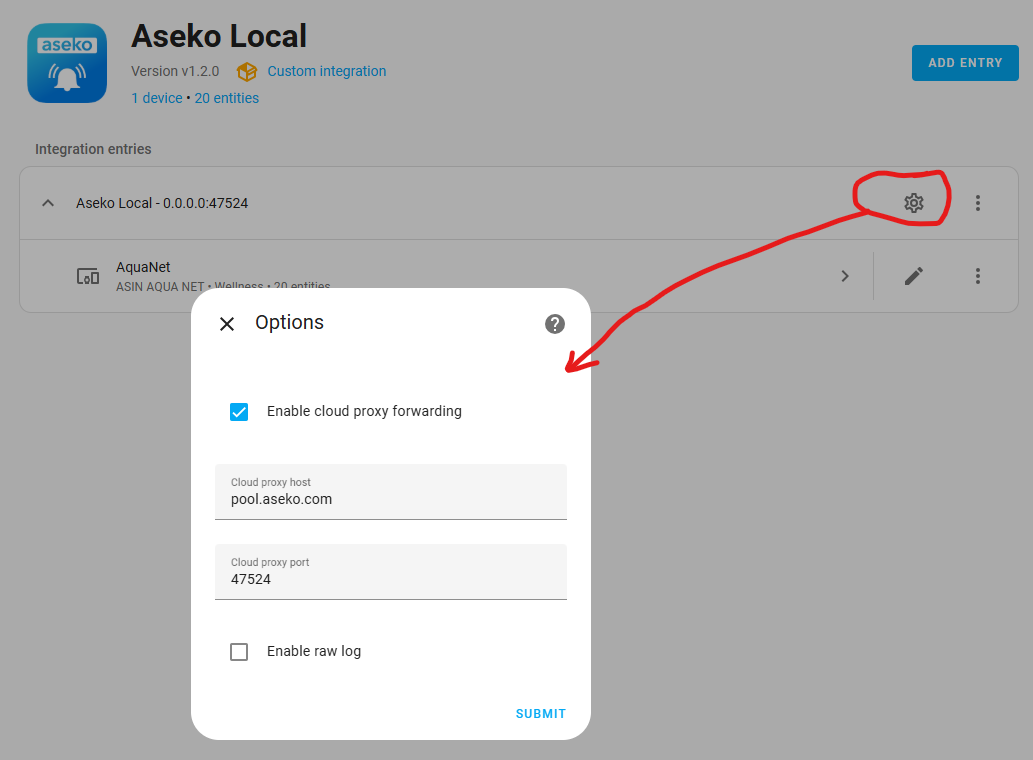
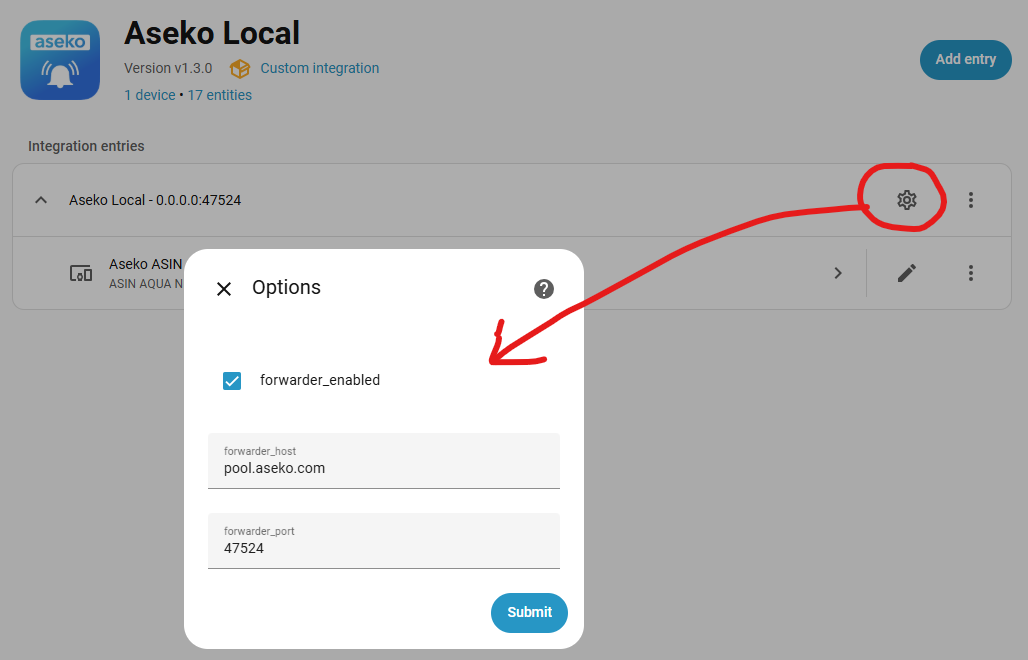
chore: readme adapted

diff --git a/custom_components/aseko_local/mirror_forwarder.py b/custom_components/aseko_local/mirror_forwarder.py
@@ -34,6 +34,7 @@ class AsekoCloudMirror:
         if self._task is not None:
             return
         self._task = asyncio.create_task(self._worker(), name="AsekoCloudMirrorWorker")
+        _LOGGER.debug("Mirror worker started.")
 
     async def stop(self) -> None:
         """Stop worker task and close connection."""
@@ -42,6 +43,7 @@ class AsekoCloudMirror:
             await self._task
             self._task = None
         await self._close_writer()
+        _LOGGER.debug("Mirror worker stopped.")
 
     async def enqueue(self, frame: bytes) -> None:
         """Queue one raw Aquanet frame (120 bytes). Non-blocking for the caller."""

diff --git a/README.md b/README.md
@@ -59,11 +59,8 @@ You need to re-configure your Aseko unit to send data to your Home Assistant ins
 
 If you want to keep sending the data to Aseko Cloud, you had to use a TCP proxy (like Goduuplicator) before release 1.2.0. The installation of such a TCP proxy with package copying is tricky, especially the stream to Aseko Local was always interrupted after some seconds. Further goduplicator hasn't been updated for 5 years.
 
-Sinc release 1.2.0 Aseko Local has a built in proxy to forward the raw data received from Aseko Device to Aseko Cloud (pool.aseko.com:47524 = original address). Open Aseko Local integration, klick on settings (see image) and enable cloud proxy.
+Since release 1.3.0 Aseko Local has a built in proxy to forward the raw data received from Aseko Device to Aseko Cloud (pool.aseko.com:47524 = original address). Open Aseko Local integration, klick on settings (see image) and enable cloud proxy.
 
 ![Aseko Local options](images/aseko-options.png)
 
-### Optional: Raw data logger
-
-In some cases a developper has to debug received raw data. With enabled raw data logger in options dialog a "aseko_log" folder will be created in HA config folder. A binary and hex file with timestamped records are created.
 
